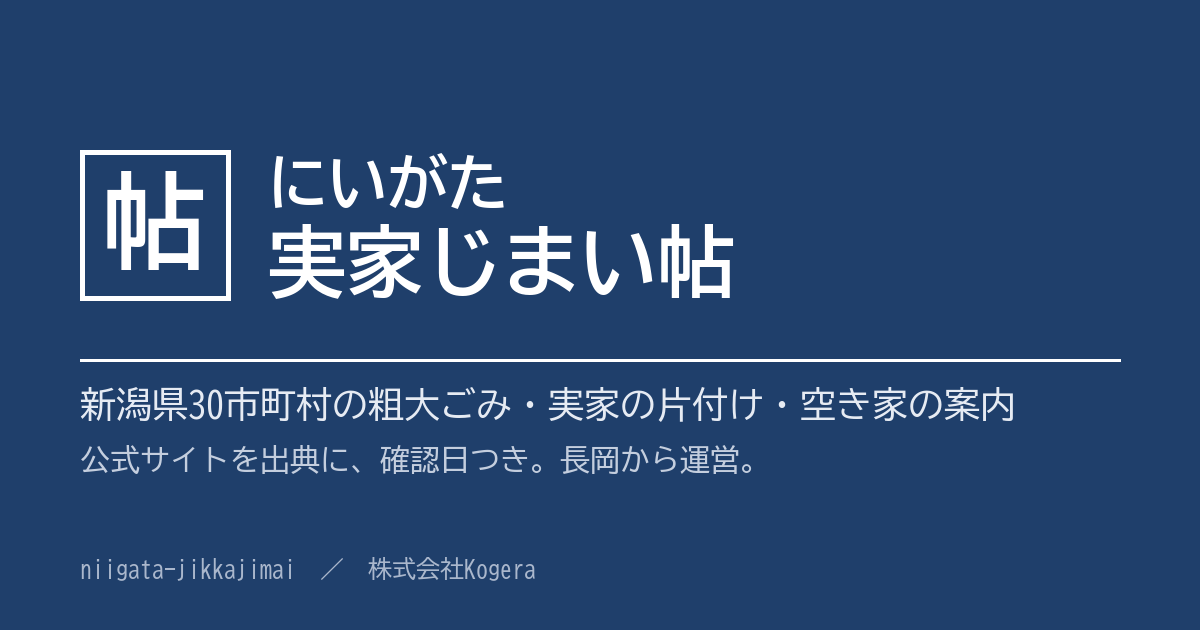
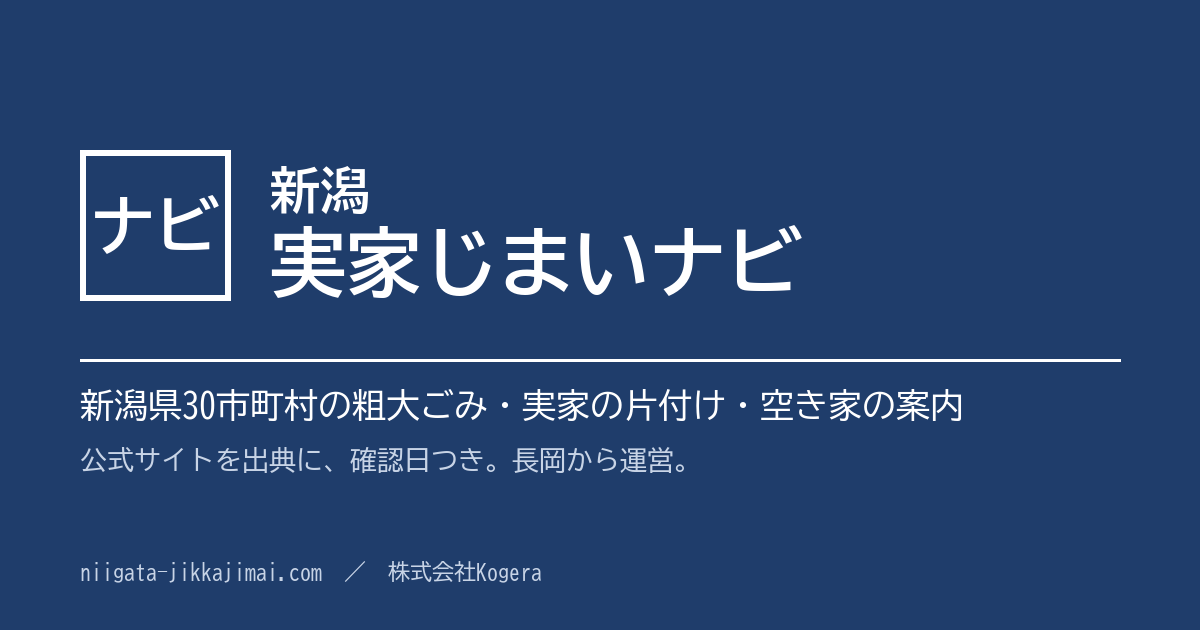
サイト名を「新潟 実家じまいナビ」に変更
- site.json の name、固定ページ・無料様式（HTML・xlsx）・運用文書の表記
- ヘッダーのマークとファビコンを「帖」から「ナビ」に
- SNS共有画像を作り直し（再生成用に scripts/_build_og.py を追加）

diff --git a/public/tools/jikkajimai-checklist.html b/public/tools/jikkajimai-checklist.html
@@ -47,11 +47,11 @@ table.cl td.cf{width:25%;font-size:12.5px}
 <body>
 <div class="wrap">
 <h1>実家じまいチェックリスト（新潟版）</h1>
-<p class="meta">にいがた実家じまい帖／更新 2026-10-03／A4縦・白黒印刷用／登録不要・無料・再配布可（出典明記）</p>
+<p class="meta">新潟 実家じまいナビ／更新 2026-10-03／A4縦・白黒印刷用／登録不要・無料・再配布可（出典明記）</p>
 <div class="bar"><button class="btn" onclick="window.print()">印刷する</button><span class="note">チェックはこの画面でも付けられます（保存はされません）。</span></div>
 <div class="who"><div>実家の所在地（市町村）: <span></span></div><div>記入日: <span></span></div><div>担当者: <span></span></div></div>
 <section class="cat"><h2>1. 死後・施設入所後の期限つき手続き</h2><table class="cl"><thead><tr><th>済</th><th>確認項目</th><th>期限・目安</th><th>確認先</th></tr></thead><tbody><tr><td class="ck"><input type="checkbox" aria-label="済"></td><td>年金受給権者の死亡届を出す</td><td class="dl">すみやかに。遅れると受け取りすぎた年金を返す場合がある</td><td class="cf">確認先: 日本年金機構、市の公式ページ（死亡後の手続き）</td></tr><tr><td class="ck"><input type="checkbox" aria-label="済"></td><td>相続放棄をするか決める（決めるまで遺品の処分・売却を急がない）</td><td class="dl">相続の開始を知ったときから3か月以内</td><td class="cf">確認先: 家庭裁判所、市の公式ページ（法律相談）</td></tr><tr><td class="ck"><input type="checkbox" aria-label="済"></td><td>準確定申告が必要か確認する</td><td class="dl">相続の開始を知った日の翌日から4か月以内</td><td class="cf">確認先: 税務署、市の公式ページ（税の相談）</td></tr><tr><td class="ck"><input type="checkbox" aria-label="済"></td><td>相続税の申告・納税が必要か確認する</td><td class="dl">死亡を知った日の翌日から10か月以内</td><td class="cf">確認先: 税務署、市の公式ページ（税の相談）</td></tr><tr><td class="ck"><input type="checkbox" aria-label="済"></td><td>相続登記（不動産の名義変更）の準備をする</td><td class="dl">取得を知った日から3年以内（2024年4月1日から義務化）</td><td class="cf">確認先: 法務局、市の公式ページ（相続登記の案内）</td></tr><tr><td class="ck"><input type="checkbox" aria-label="済"></td><td>空き家の3,000万円特別控除が使えるか確認する</td><td class="dl">相続の開始から3年を経過する日の属する年の12月31日まで。令和9年12月31日までの売却が条件</td><td class="cf">確認先: 税務署、市の公式ページ（空き家の譲渡）</td></tr><tr><td class="ck"><input type="checkbox" aria-label="済"></td><td>施設入所の場合：家の鍵・郵便・火の元・公共料金の管理役を決める</td><td class="dl">入所が決まったらすぐ</td><td class="cf">確認先: 入所先の施設、市の公式ページ（高齢者福祉）</td></tr></tbody></table></section><section class="cat"><h2>2. 貴重品・書類の確認</h2><table class="cl"><thead><tr><th>済</th><th>確認項目</th><th>期限・目安</th><th>確認先</th></tr></thead><tbody><tr><td class="ck"><input type="checkbox" aria-label="済"></td><td>通帳・印鑑・キャッシュカードを探して別にしておく</td><td class="dl">ごみ袋に入れる前に</td><td class="cf">確認先: 各金融機関、市の公式ページ（相続の手続き）</td></tr><tr><td class="ck"><input type="checkbox" aria-label="済"></td><td>保険証券・年金関係の書類を探す</td><td class="dl">ごみ袋に入れる前に</td><td class="cf">確認先: 各保険会社、日本年金機構</td></tr><tr><td class="ck"><input type="checkbox" aria-label="済"></td><td>権利証（登記関係の書類）・固定資産税の通知書を探す</td><td class="dl">ごみ袋に入れる前に</td><td class="cf">確認先: 市の公式ページ（固定資産税）、法務局</td></tr><tr><td class="ck"><input type="checkbox" aria-label="済"></td><td>契約書（賃貸・ローン・保険など）、鍵、暗証番号のメモを探す</td><td class="dl">ごみ袋に入れる前に</td><td class="cf">確認先: 各契約先</td></tr><tr><td class="ck"><input type="checkbox" aria-label="済"></td><td>現金・貴金属を探す（タンスの引き出し、仏壇まわり、本の間も）</td><td class="dl">ごみ袋に入れる前に</td><td class="cf">確認先: 市の公式ページ（相続の手続き）</td></tr><tr><td class="ck"><input type="checkbox" aria-label="済"></td><td>見つけた物は中身を確認せず、一つの箱にまとめる</td><td class="dl">仕分けの途中で</td><td class="cf">確認先: 市の公式ページ（相続の手続き）</td></tr></tbody></table></section><section class="cat"><h2>3. ごみの出し方（市の粗大ごみ・持ち込み・家電）</h2><table class="cl"><thead><tr><th>済</th><th>確認項目</th><th>期限・目安</th><th>確認先</th></tr></thead><tbody><tr><td class="ck"><input type="checkbox" aria-label="済"></td><td>市の粗大ごみの申込方法を調べる（事前申込か、持ち込みのみか）</td><td class="dl">収集まで数日〜2週間ほどかかる市もある。早めに</td><td class="cf">確認先: 市の公式ページ（粗大ごみ）。30市町村の一覧は「粗大ごみ早見表」にもあります</td></tr><tr><td class="ck"><input type="checkbox" aria-label="済"></td><td>品目ごとの手数料（処理券）の額と、買える場所を確認する</td><td class="dl">申込時に金額を案内される市が多い</td><td class="cf">確認先: 市の公式ページ（粗大ごみ手数料）</td></tr><tr><td class="ck"><input type="checkbox" aria-label="済"></td><td>持ち込み先の受付時間・休み・予約の要否を確認する</td><td class="dl">日曜・祝日・年末年始は休みの施設が多い</td><td class="cf">確認先: 市の公式ページ（ごみ処理施設）</td></tr><tr><td class="ck"><input type="checkbox" aria-label="済"></td><td>混む日を避けて持ち込む日を決める</td><td class="dl">新潟市は年末年始・お盆・引っ越しシーズン・連休の翌日・土曜が混むと案内</td><td class="cf">確認先: 市の公式ページ（自己搬入）</td></tr><tr><td class="ck"><input type="checkbox" aria-label="済"></td><td>家電4品目（エアコン・テレビ・冷蔵庫/冷凍庫・洗濯機/衣類乾燥機）は市で出せないと確認する</td><td class="dl">販売店か指定引取場所へ。リサイクル料金が別にかかる</td><td class="cf">確認先: 市の公式ページ（家電リサイクル）</td></tr><tr><td class="ck"><input type="checkbox" aria-label="済"></td><td>納屋・車庫の「市で出せない物」を分ける（農薬、バッテリー、消火器、ガスボンベ、灯油、塗料、バイク、タイヤなど）</td><td class="dl">市ごとに対象が違う</td><td class="cf">確認先: 市の公式ページ（市で収集しないごみ）</td></tr><tr><td class="ck"><input type="checkbox" aria-label="済"></td><td>袋・結び方・大きさなど、市の出し方の条件を確認する</td><td class="dl">条件を外れると収集されない場合がある</td><td class="cf">確認先: 市の公式ページ（ごみの出し方）</td></tr></tbody></table></section><section class="cat"><h2>4. 業者に頼む範囲</h2><table class="cl"><thead><tr><th>済</th><th>確認項目</th><th>期限・目安</th><th>確認先</th></tr></thead><tbody><tr><td class="ck"><input type="checkbox" aria-label="済"></td><td>頼む範囲を決める（搬出と処分だけ／仕分けから／清掃・買取まで）</td><td class="dl">量・階段・雪・遠方・期限の5つで考える</td><td class="cf">確認先: 市の公式ページ（許可業者の案内）</td></tr><tr><td class="ck"><input type="checkbox" aria-label="済"></td><td>家庭ごみを運べる許可（一般廃棄物の収集運搬）の有無を、市の一覧で確認する</td><td class="dl">産業廃棄物や古物商の許可では家庭の廃棄物は回収できない</td><td class="cf">確認先: 市の公式ページ（ごみ収集運搬業許可業者）</td></tr><tr><td class="ck"><input type="checkbox" aria-label="済"></td><td>実家のある地域に対応している業者か確認する</td><td class="dl">地域限定の許可がある市もある</td><td class="cf">確認先: 市の公式ページ（許可業者一覧）</td></tr><tr><td class="ck"><input type="checkbox" aria-label="済"></td><td>複数社から見積もりを取り、書面で受け取る（別紙の比較シートを使う）</td><td class="dl">追加料金・キャンセル料・作業範囲を書面で確認</td><td class="cf">確認先: 市の公式ページ、消費生活センター</td></tr><tr><td class="ck"><input type="checkbox" aria-label="済"></td><td>売れそうな物は、先に買取を確認する</td><td class="dl">処分する量が減る</td><td class="cf">確認先: 市の公式ページ（リサイクル・再利用）</td></tr><tr><td class="ck"><input type="checkbox" aria-label="済"></td><td>搬出・処分費の補助がないか確認する</td><td class="dl">契約前の申請が必要な制度がある</td><td class="cf">確認先: 市の公式ページ（空き家・補助金）</td></tr></tbody></table></section><section class="cat"><h2>5. 空き家の方針</h2><table class="cl"><thead><tr><th>済</th><th>確認項目</th><th>期限・目安</th><th>確認先</th></tr></thead><tbody><tr><td class="ck"><input type="checkbox" aria-label="済"></td><td>建物をどうするか方針を決める（売る・貸す・使う・壊す）</td><td class="dl">すぐ決められなくてもよい。放置は避ける</td><td class="cf">確認先: 市の公式ページ（空き家対策）</td></tr><tr><td class="ck"><input type="checkbox" aria-label="済"></td><td>空き家バンクの登録条件を確認する</td><td class="dl">市によって有無・条件が違う</td><td class="cf">確認先: 市の公式ページ（空き家バンク）</td></tr><tr><td class="ck"><input type="checkbox" aria-label="済"></td><td>解体の補助金の有無・条件を確認する</td><td class="dl">着工前の申請が必要な制度がある</td><td class="cf">確認先: 市の公式ページ（空き家解体補助）</td></tr><tr><td class="ck"><input type="checkbox" aria-label="済"></td><td>管理不全空家として指導を受けない管理をする（見回り・換気・通水）</td><td class="dl">指導に従わず勧告を受けると、固定資産税の住宅用地特例が受けられなくなる</td><td class="cf">確認先: 市の公式ページ（空き家の管理）</td></tr><tr><td class="ck"><input type="checkbox" aria-label="済"></td><td>相談窓口の電話番号を控える</td><td class="dl">長岡市は都市政策課、新潟市は住環境政策課など</td><td class="cf">確認先: 市の公式ページ（空き家相談）</td></tr></tbody></table></section><section class="cat"><h2>6. 名義・公共料金・郵便</h2><table class="cl"><thead><tr><th>済</th><th>確認項目</th><th>期限・目安</th><th>確認先</th></tr></thead><tbody><tr><td class="ck"><input type="checkbox" aria-label="済"></td><td>電気・ガス・水道を解約するか名義変更するか決め、各社へ連絡する</td><td class="dl">解約日は片付けの日程に合わせる</td><td class="cf">確認先: 各事業者、市の公式ページ（上下水道）</td></tr><tr><td class="ck"><input type="checkbox" aria-label="済"></td><td>長期不在になる場合の止水栓の扱いを確認する</td><td class="dl">冬の凍結にも関わる</td><td class="cf">確認先: 市の公式ページ（水道）</td></tr><tr><td class="ck"><input type="checkbox" aria-label="済"></td><td>郵便物の転送手続きをする（転居届は届出日から1年間、無料で転送）</td><td class="dl">亡くなった方あての郵便は窓口で確認</td><td class="cf">確認先: 日本郵便、市の公式ページ</td></tr><tr><td class="ck"><input type="checkbox" aria-label="済"></td><td>戸籍の取り寄せ（本籍地以外の市区町村の窓口でも請求できる）</td><td class="dl">窓口に本人が出向く必要がある</td><td class="cf">確認先: 市の公式ページ（戸籍証明書の広域交付）</td></tr><tr><td class="ck"><input type="checkbox" aria-label="済"></td><td>固定資産税の納税通知書の送付先と、納める人を確認する</td><td class="dl">納期を確認</td><td class="cf">確認先: 市の公式ページ（固定資産税）</td></tr></tbody></table></section><section class="cat"><h2>7. 近所への挨拶</h2><table class="cl"><thead><tr><th>済</th><th>確認項目</th><th>期限・目安</th><th>確認先</th></tr></thead><tbody><tr><td class="ck"><input type="checkbox" aria-label="済"></td><td>片付けの日程（トラックが入る日・音が出る日）を近所に伝える</td><td class="dl">できれば片付けを始める前に</td><td class="cf">確認先: 市の公式ページ（自治会・町内会）</td></tr><tr><td class="ck"><input type="checkbox" aria-label="済"></td><td>自分の連絡先を、隣家や自治会・町内会に渡す</td><td class="dl">空き家になる場合は特に</td><td class="cf">確認先: 市の公式ページ（空き家の管理）</td></tr></tbody></table></section><section class="cat"><h2>8. 冬の雪対策</h2><table class="cl"><thead><tr><th>済</th><th>確認項目</th><th>期限・目安</th><th>確認先</th></tr></thead><tbody><tr><td class="ck"><input type="checkbox" aria-label="済"></td><td>雪が降る前に搬出まで終える日程にする</td><td class="dl">雪の時期は搬出路が滑りやすい</td><td class="cf">確認先: 市の公式ページ（雪対策）</td></tr><tr><td class="ck"><input type="checkbox" aria-label="済"></td><td>空き家の雪下ろし・除雪の責任と、誰がやるかを決める</td><td class="dl">新潟県は「空き家の管理は所有者の責任です」と案内</td><td class="cf">確認先: 市の公式ページ（雪下ろし・除雪の支援）</td></tr><tr><td class="ck"><input type="checkbox" aria-label="済"></td><td>雪下ろしの支援・補助制度の有無を確認する</td><td class="dl">市ごとに制度が違う</td><td class="cf">確認先: 市の公式ページ（雪下ろし支援）</td></tr><tr><td class="ck"><input type="checkbox" aria-label="済"></td><td>業者の積雪期の対応（日程・料金の条件が変わるか）を見積もりで聞く</td><td class="dl">見積もりの段階で確認</td><td class="cf">確認先: 市の公式ページ、業者</td></tr><tr><td class="ck"><input type="checkbox" aria-label="済"></td><td>雪の中の作業は事故に注意する（雪下ろしだけでなく作業全般）</td><td class="dl">新潟県が除雪作業事故の防止を呼びかけている</td><td class="cf">確認先: 新潟県・市の公式ページ（除雪事故防止）</td></tr></tbody></table></section>
-<p class="footer">期限と手続きの要否は、一般的な案内です。自分に当てはまるかは、税理士・司法書士・弁護士・税務署などで確認してください。市の制度は更新されます。申込の前に、市の公式ページで最新の内容を確認してください。<br>出典: にいがた実家じまい帖「新潟の実家じまいの手順」「新潟の実家の片付けは自分で？業者？」（各機関の公式情報に基づく）。このシートは出典を明記すれば自由に再配布できます。</p>
+<p class="footer">期限と手続きの要否は、一般的な案内です。自分に当てはまるかは、税理士・司法書士・弁護士・税務署などで確認してください。市の制度は更新されます。申込の前に、市の公式ページで最新の内容を確認してください。<br>出典: 新潟 実家じまいナビ「新潟の実家じまいの手順」「新潟の実家の片付けは自分で？業者？」（各機関の公式情報に基づく）。このシートは出典を明記すれば自由に再配布できます。</p>
 </div>
 </body>
 </html>

diff --git a/public/tools/mitsumori-hikaku.html b/public/tools/mitsumori-hikaku.html
@@ -55,14 +55,14 @@ table.six td.ans{height:70px}
 <body>
 <div class="wrap">
 <h1>業者見積もり比較シート（新潟版）</h1>
-<p class="meta">にいがた実家じまい帖／更新 2026-10-03／A4横・白黒印刷用／登録不要・無料・再配布可（出典明記）。表計算で入力する場合は同じ内容の mitsumori-hikaku.xlsx を使ってください（合計は自動計算）。</p>
+<p class="meta">新潟 実家じまいナビ／更新 2026-10-03／A4横・白黒印刷用／登録不要・無料・再配布可（出典明記）。表計算で入力する場合は同じ内容の mitsumori-hikaku.xlsx を使ってください（合計は自動計算）。</p>
 <div class="bar"><button class="btn" onclick="window.print()">印刷する</button></div>
 <div class="who"><div>実家の所在地: <span></span></div><div>記入日: <span></span></div></div>
 <h2>見積もり比較（3社分）</h2>
 <table class="cmp"><thead><tr><th>項目</th><th>確認の目安</th><th>業者A</th><th>業者B</th><th>業者C</th><th>確認点のメモ</th></tr></thead><tbody><tr class=""><td class="item">業者名</td><td class="hint"></td><td class="v"></td><td class="v"></td><td class="v"></td><td class="v"></td></tr><tr class=""><td class="item">許可の有無（一般廃棄物収集運搬）</td><td class="hint">市の公式一覧で確認する。運搬を行う会社が許可業者かも尋ねる。産業廃棄物・古物商の許可では家庭の廃棄物は回収できない</td><td class="v"></td><td class="v"></td><td class="v"></td><td class="v"></td></tr><tr class=""><td class="item">見積もり方法（訪問・写真）</td><td class="hint">訪問見積もりか、写真見積もりか。写真の場合、当日の変更の扱いを聞く</td><td class="v"></td><td class="v"></td><td class="v"></td><td class="v"></td></tr><tr class=""><td class="item">基本料金（円）</td><td class="hint">何が含まれるか（作業人数・車両・仕分け・清掃）を書面で確認</td><td class="v"></td><td class="v"></td><td class="v"></td><td class="v"></td></tr><tr class="tall"><td class="item">追加料金の条件</td><td class="hint">階段・駐車場・量の増加・特殊な品目で増えるか。キャンセル料はいつから・いくらか</td><td class="v"></td><td class="v"></td><td class="v"></td><td class="v"></td></tr><tr class=""><td class="item">追加料金の見込み額（円）</td><td class="hint">条件に当てはまる場合の見込み額。分からなければ空欄</td><td class="v"></td><td class="v"></td><td class="v"></td><td class="v"></td></tr><tr class="tall"><td class="item">買取の有無・金額</td><td class="hint">売れる物（家具・着物・家電など）の買取があるか。処分費と相殺されるか</td><td class="v"></td><td class="v"></td><td class="v"></td><td class="v"></td></tr><tr class=""><td class="item">買取金額（円）</td><td class="hint">合計から差し引く金額</td><td class="v"></td><td class="v"></td><td class="v"></td><td class="v"></td></tr><tr class="tall"><td class="item">作業日・立会い</td><td class="hint">作業日の候補。立会いの要否、鍵の預け方と返却</td><td class="v"></td><td class="v"></td><td class="v"></td><td class="v"></td></tr><tr class="tall"><td class="item">積雪期の対応</td><td class="hint">雪の時期に日程・料金の条件が変わるか</td><td class="v"></td><td class="v"></td><td class="v"></td><td class="v"></td></tr><tr class=""><td class="item">写真報告の有無</td><td class="hint">作業前後の写真報告があるか（遠方の場合は特に）</td><td class="v"></td><td class="v"></td><td class="v"></td><td class="v"></td></tr><tr class=""><td class="item">合計（円）</td><td class="hint">基本料金 + 追加料金の見込み額 - 買取金額（自動計算）</td><td class="v"></td><td class="v"></td><td class="v"></td><td class="v"></td></tr><tr class="tall"><td class="item">備考</td><td class="hint"></td><td class="v"></td><td class="v"></td><td class="v"></td><td class="v"></td></tr></tbody></table>
 <h2 class="pg2">見積もりで聞く6つのこと</h2>
 <table class="six"><thead><tr><th>No.</th><th>聞くこと</th><th>見るポイント</th><th>業者Aの回答</th><th>業者Bの回答</th><th>業者Cの回答</th></tr></thead><tbody><tr><td class="no">1</td><td class="q"><input type="checkbox" aria-label="聞いた"> 一般廃棄物の収集運搬の許可はありますか。運ぶのは自社ですか</td><td class="why">市の公式一覧にある業者か確認する。遺品整理の会社が別の会社に運搬を任せる場合、その運搬会社が許可業者か確認する</td><td class="ans"></td><td class="ans"></td><td class="ans"></td></tr><tr><td class="no">2</td><td class="q"><input type="checkbox" aria-label="聞いた"> 追加料金は、どんな場合に、いくら増えますか</td><td class="why">階段・駐車場・量の増加・特殊な品目。見積書に追加料金の条件を書いてもらう</td><td class="ans"></td><td class="ans"></td><td class="ans"></td></tr><tr><td class="no">3</td><td class="q"><input type="checkbox" aria-label="聞いた"> キャンセル料は、いつから、いくらかかりますか</td><td class="why">日程変更の扱いも聞く。後から高額なキャンセル料を請求される相談例がある</td><td class="ans"></td><td class="ans"></td><td class="ans"></td></tr><tr><td class="no">4</td><td class="q"><input type="checkbox" aria-label="聞いた"> 残す物と処分する物を、どう区別しますか。作業範囲はどこまでですか</td><td class="why">仕分け・搬出・清掃・買取のどこまでか。処分しないよう頼んだ物の取り違えを防ぐ</td><td class="ans"></td><td class="ans"></td><td class="ans"></td></tr><tr><td class="no">5</td><td class="q"><input type="checkbox" aria-label="聞いた"> 家電4品目（エアコン・テレビ・冷蔵庫/冷凍庫・洗濯機/衣類乾燥機）は、どう扱いますか</td><td class="why">リサイクル料金と運搬料金を、見積もりでどう扱うか。市では出せない品目</td><td class="ans"></td><td class="ans"></td><td class="ans"></td></tr><tr><td class="no">6</td><td class="q"><input type="checkbox" aria-label="聞いた"> 立会いは必要ですか。当日、見積もりと違う提案があった場合はどうなりますか</td><td class="why">鍵の預け方と返却も確認。見積もりと異なる提案は作業前に断り、その場の支払いも拒否してよい</td><td class="ans"></td><td class="ans"></td><td class="ans"></td></tr></tbody></table>
-<p class="footer">見積もりは複数社から取り、見積書は作業内容と費用が分かる書面で受け取ってください（国民生活センターの案内）。トラブルが起きたら、消費生活センターに相談してください。業者名は、市の公式の許可業者一覧と照らして記入してください。<br>出典: にいがた実家じまい帖「新潟の実家の片付けは自分で？業者？」（環境省・国民生活センターの公開情報に基づく）。このシートは出典を明記すれば自由に再配布できます。</p>
+<p class="footer">見積もりは複数社から取り、見積書は作業内容と費用が分かる書面で受け取ってください（国民生活センターの案内）。トラブルが起きたら、消費生活センターに相談してください。業者名は、市の公式の許可業者一覧と照らして記入してください。<br>出典: 新潟 実家じまいナビ「新潟の実家の片付けは自分で？業者？」（環境省・国民生活センターの公開情報に基づく）。このシートは出典を明記すれば自由に再配布できます。</p>
 </div>
 </body>
 </html>

diff --git a/public/tools/sodaigomi-hayamihyo.html b/public/tools/sodaigomi-hayamihyo.html
@@ -46,7 +46,7 @@ td.u a{color:var(--ink)}
 <body>
 <div class="wrap">
 <h1>新潟県 粗大ごみ早見表（30市町村）</h1>
-<p class="meta">にいがた実家じまい帖／確認日 2026-10-01〜03（各市町村の公式ページ）／A4横・白黒印刷用／登録不要・無料・再配布可（出典明記）</p>
+<p class="meta">新潟 実家じまいナビ／確認日 2026-10-01〜03（各市町村の公式ページ）／A4横・白黒印刷用／登録不要・無料・再配布可（出典明記）</p>
 <div class="bar"><button class="btn" onclick="window.print()">印刷する</button></div>
 <div class="scroll"><table>
 <thead><tr><th>市町村</th><th>申込先</th><th>料金の仕組み</th><th>持ち込み先</th><th>公式URL</th></tr></thead>
@@ -82,7 +82,7 @@ td.u a{color:var(--ink)}
 <tr><td class="c">関川村<small>確認 2026-10-01</small></td><td>村の粗大ごみ収集は<span class="pend">確認中</span>（公式に記載なし）。許可業者へ依頼、または村上市ごみ処理場へ直接搬入（事前申込不要）</td><td>持込みは重量制で、10kgまで60円、以降10kgごとに60円。許可業者は業者ごとの有料</td><td>村上市ごみ処理場（村上市桧原1147、0254-60-2430）。8:30〜16:00</td><td class="u"><a href="http://www.vill.sekikawa.niigata.jp/life/12/679/588/index.html">http://www.vill.sekikawa.niigata.jp/life/12/679/588/index.html</a></td></tr>
 <tr><td class="c">粟島浦村<small>確認 2026-10-01</small></td><td>粗大ごみは名前を書いて指定日に出す。大型品は焼却場へ直接持込、または連絡すれば取りに来る（0254-55-2126）</td><td>手数料を徴収しているが、料金表は<span class="pend">確認中</span>（公式で確認できず）</td><td>焼却場（0254-55-2126）へ直接持込可（有料）。受付時間・料金は<span class="pend">確認中</span></td><td class="u"><a href="https://www.vill.awashimaura.lg.jp/news/5654/">https://www.vill.awashimaura.lg.jp/news/5654/</a></td></tr>
 </tbody></table></div>
-<p class="footer">「確認中」は、公式ページに記載が見当たらない、または読み取れなかった項目です。推測では埋めていません。料金・受付時間・申込方法は改定されます。出す前に、必ず公式URLで最新の内容を確認してください。<br>出典: 各市町村の公式ページ（上記URL）。にいがた実家じまい帖が整理。このシートは出典を明記すれば自由に再配布できます。</p>
+<p class="footer">「確認中」は、公式ページに記載が見当たらない、または読み取れなかった項目です。推測では埋めていません。料金・受付時間・申込方法は改定されます。出す前に、必ず公式URLで最新の内容を確認してください。<br>出典: 各市町村の公式ページ（上記URL）。新潟 実家じまいナビが整理。このシートは出典を明記すれば自由に再配布できます。</p>
 </div>
 </body>
 </html>

diff --git a/public/assets/site.css b/public/assets/site.css
@@ -1,4 +1,4 @@
-/* にいがた実家じまい帖 — デザイン v3「帳面」（2026-10-02）
+/* 新潟 実家じまいナビ — デザイン v3「帳面」（2026-10-02）
    役所の窓口でもらう、よくできた案内冊子。白い紙に墨の文字、藍の罫、数字は等幅。
    やらないこと: 角丸カード・影・グラデ・eyebrow・装飾番号・✓リスト・ピル・ホバーで動く・統計タイル。
    残すもの: 即答→自己判定→相談の構造、確認日と出典、モバイル下部の固定バー1本。 */
@@ -27,17 +27,17 @@ p,li,dd,dt,td,th,summary{overflow-wrap:anywhere}
 .mast-top span+span::before{content:"｜";margin:0 8px;color:var(--line)}
 .mast{display:flex;align-items:flex-end;justify-content:space-between;gap:16px;padding:14px 0 12px}
 .brand{display:flex;align-items:center;gap:12px;text-decoration:none;color:var(--ink)}
-.brand-mark{display:inline-grid;place-items:center;width:44px;height:44px;border:2px solid var(--ink);color:var(--ink);font-size:26px;font-weight:700;line-height:1}
+.brand-mark{display:inline-grid;place-items:center;width:44px;height:44px;border:2px solid var(--ink);color:var(--ink);font-size:17px;letter-spacing:-.04em;font-weight:700;line-height:1}
 .brand-name{font-size:30px;font-weight:700;line-height:1.1;letter-spacing:.02em}
 .brand-sub{display:none}
 .nav{display:flex;gap:2px;align-items:center;font-size:14.5px;padding-bottom:4px;white-space:nowrap}
 .brand-name{white-space:nowrap}
-@media (max-width:1180px){.brand-name{font-size:24px}.brand-mark{width:38px;height:38px;font-size:22px}.nav{font-size:13.5px}.nav a{padding:8px 7px}}
+@media (max-width:1180px){.brand-name{font-size:24px}.brand-mark{width:38px;height:38px;font-size:15px}.nav{font-size:13.5px}.nav a{padding:8px 7px}}
 .nav a{text-decoration:none;color:var(--ink);padding:8px 10px}
 .nav a:hover{text-decoration:underline}
 .nav a.cta{color:#fff;background:var(--navy);font-weight:700;margin-left:8px;padding:9px 14px;border-radius:2px}
 .nav a.cta:hover{background:var(--navy-2);text-decoration:none}
-@media (max-width:760px){.nav a:not(.cta){display:none}.mast-top span:not(:last-child){display:none}.mast-top span:last-child::before{content:none}.mast{padding:10px 0 9px;align-items:center}.brand-mark{width:34px;height:34px;font-size:20px}.brand-name{font-size:21px}}
+@media (max-width:760px){.nav a:not(.cta){display:none}.mast-top span:not(:last-child){display:none}.mast-top span:last-child::before{content:none}.mast{padding:10px 0 9px;align-items:center}.brand-mark{width:34px;height:34px;font-size:13px}.brand-name{font-size:21px}}
 
 /* ---------- crumbs ---------- */
 .crumbs{font-size:12.5px;color:var(--mute);margin:12px auto 0}

diff --git a/scripts/_build_hayamihyo.py b/scripts/_build_hayamihyo.py
@@ -260,14 +260,14 @@ def main():
 <body>
 <div class="wrap">
 <h1>新潟県 粗大ごみ早見表（30市町村）</h1>
-<p class="meta">にいがた実家じまい帖／確認日 2026-10-01〜03（各市町村の公式ページ）／A4横・白黒印刷用／登録不要・無料・再配布可（出典明記）</p>
+<p class="meta">新潟 実家じまいナビ／確認日 2026-10-01〜03（各市町村の公式ページ）／A4横・白黒印刷用／登録不要・無料・再配布可（出典明記）</p>
 <div class="bar"><button class="btn" onclick="window.print()">印刷する</button></div>
 <div class="scroll"><table>
 <thead><tr><th>市町村</th><th>申込先</th><th>料金の仕組み</th><th>持ち込み先</th><th>公式URL</th></tr></thead>
 <tbody>
 {chr(10).join(rows)}
 </tbody></table></div>
-<p class="footer">「確認中」は、公式ページに記載が見当たらない、または読み取れなかった項目です。推測では埋めていません。料金・受付時間・申込方法は改定されます。出す前に、必ず公式URLで最新の内容を確認してください。<br>出典: 各市町村の公式ページ（上記URL）。にいがた実家じまい帖が整理。このシートは出典を明記すれば自由に再配布できます。</p>
+<p class="footer">「確認中」は、公式ページに記載が見当たらない、または読み取れなかった項目です。推測では埋めていません。料金・受付時間・申込方法は改定されます。出す前に、必ず公式URLで最新の内容を確認してください。<br>出典: 各市町村の公式ページ（上記URL）。新潟 実家じまいナビが整理。このシートは出典を明記すれば自由に再配布できます。</p>
 </div>
 </body>
 </html>

diff --git a/scripts/_build_og.py b/scripts/_build_og.py
@@ -1,0 +1,31 @@
+# -*- coding: utf-8 -*-
+"""SNS共有用の画像 public/assets/og.png（1200x630）を作る。サイト名を変えたらこれを再実行する。
+使い方: PYTHONUTF8=1 python scripts/_build_og.py
+"""
+import os, json, io
+from PIL import Image, ImageDraw, ImageFont
+
+ROOT = os.path.dirname(os.path.dirname(os.path.abspath(__file__)))
+SITE = json.load(io.open(os.path.join(ROOT, "site.json"), encoding="utf-8"))
+B = r"C:\Windows\Fonts\BIZ-UDGothicB.ttc"
+R = r"C:\Windows\Fonts\BIZ-UDGothicR.ttc"
+BG, FG, SUB = (31, 61, 107), (255, 255, 255), (200, 212, 230)
+
+img = Image.new("RGB", (1200, 630), BG)
+d = ImageDraw.Draw(img)
+# 左のマーク（ヘッダーの brand-mark と同じ「ナビ」）
+d.rectangle([80, 150, 230, 300], outline=FG, width=6)
+f = ImageFont.truetype(B, 64)
+w = d.textlength("ナビ", font=f)
+d.text((155 - w / 2, 225), "ナビ", font=f, fill=FG, anchor="lm")
+# サイト名（「新潟」と「実家じまいナビ」の2行）
+name = SITE["name"].split(" ", 1)
+d.text((270, 190), name[0], font=ImageFont.truetype(B, 50), fill=FG, anchor="lm")
+d.text((270, 262), name[1] if len(name) > 1 else "", font=ImageFont.truetype(B, 76), fill=FG, anchor="lm")
+d.line([80, 360, 1120, 360], fill=FG, width=3)
+d.text((80, 405), "新潟県30市町村の粗大ごみ・実家の片付け・空き家の案内", font=ImageFont.truetype(R, 34), fill=FG, anchor="lm")
+d.text((80, 460), "公式サイトを出典に、確認日つき。長岡から運営。", font=ImageFont.truetype(R, 27), fill=SUB, anchor="lm")
+host = SITE["origin"].replace("https://", "")
+d.text((80, 571), f"{host}  ／  {SITE['operator']}", font=ImageFont.truetype(R, 22), fill=SUB, anchor="lm")
+img.save(os.path.join(ROOT, "public", "assets", "og.png"), optimize=True)
+print("ok")

diff --git a/scripts/_build_tools.py b/scripts/_build_tools.py
@@ -11,7 +11,7 @@ from openpyxl.styles import Alignment, Border, Font, PatternFill, Side
 from openpyxl.worksheet.datavalidation import DataValidation
 
 HERE = os.path.dirname(os.path.abspath(__file__))
-SITE = "にいがた実家じまい帖"
+SITE = "新潟 実家じまいナビ"
 UPDATED = "2026-10-03"
 ROBOTS = '<meta name="robots" content="noindex,nofollow,noarchive,noimageindex">'
 e = html.escape

diff --git a/content/pages/about.md b/content/pages/about.md
@@ -1,14 +1,14 @@
 ---
 title: 運営者情報
 slug: about
-description: にいがた実家じまい帖の運営者情報と編集方針。運営は株式会社Kogera。出典は公式サイトのみ、確認日を明記し、体験談や口コミは作りません。
+description: 新潟 実家じまいナビの運営者情報と編集方針。運営は株式会社Kogera。出典は公式サイトのみ、確認日を明記し、体験談や口コミは作りません。
 ---
 
 ## 運営
 
 | 項目 | 内容 |
 |---|---|
-| サイト名 | にいがた実家じまい帖 |
+| サイト名 | 新潟 実家じまいナビ |
 | 運営 | 株式会社Kogera |
 | 代表 | 大久保 亮佑 |
 | 所在地 | {{operatorAddress}} |

diff --git a/content/pages/tools.md b/content/pages/tools.md
@@ -43,7 +43,7 @@ cta: true
 ## 使い方と注意
 
 - 3点とも、登録・ログインは要りません。入力した内容は、どこにも送信されません。
-- 再配布や転載は自由です。出典として「にいがた実家じまい帖」と書いてください。
+- 再配布や転載は自由です。出典として「新潟 実家じまいナビ」と書いてください。
 - 期限や制度の説明は一般的な案内です。税金・相続・登記の判断は、税理士・司法書士・弁護士などに確認してください。
 
 全体の進め方は、[新潟の実家じまいの手順](../guide/jikkajimai-tejun-niigata/)にまとめています。

diff --git a/content/pages/privacy.md b/content/pages/privacy.md
@@ -1,11 +1,11 @@
 ---
 title: プライバシーポリシー
 slug: privacy
-description: にいがた実家じまい帖の個人情報の取り扱いについて。
+description: 新潟 実家じまいナビの個人情報の取り扱いについて。
 noindex: true
 ---
 
-株式会社Kogera（以下「当社」）は、当サイト「にいがた実家じまい帖」で取得する個人情報を次のとおり取り扱います。
+株式会社Kogera（以下「当社」）は、当サイト「新潟 実家じまいナビ」で取得する個人情報を次のとおり取り扱います。
 
 ## 取得する情報
 

diff --git a/content/pages/keisai.md b/content/pages/keisai.md
@@ -1,7 +1,7 @@
 ---
 title: 業者の掲載について｜新潟県内の遺品整理・片付け・不用品回収業者の方へ
 slug: keisai
-description: にいがた実家じまい帖では、新潟県内で一般廃棄物収集運搬の許可を持つ、または許可業者と提携している遺品整理・実家片付けの業者を掲載しています。
+description: 新潟 実家じまいナビでは、新潟県内で一般廃棄物収集運搬の許可を持つ、または許可業者と提携している遺品整理・実家片付けの業者を掲載しています。
 ---
 
 ## 掲載の考え方

diff --git a/content/pages/ad-policy.md b/content/pages/ad-policy.md
@@ -1,7 +1,7 @@
 ---
 title: 広告について
 slug: ad-policy
-description: にいがた実家じまい帖の収益と広告表示の方針。掲載料・紹介料を受け取る業者にはPR表示を付け、順位や評価を金銭で変えません。アフィリエイトリンクの扱いも明記。
+description: 新潟 実家じまいナビの収益と広告表示の方針。掲載料・紹介料を受け取る業者にはPR表示を付け、順位や評価を金銭で変えません。アフィリエイトリンクの扱いも明記。
 ---
 
 ## 収益の仕組み
